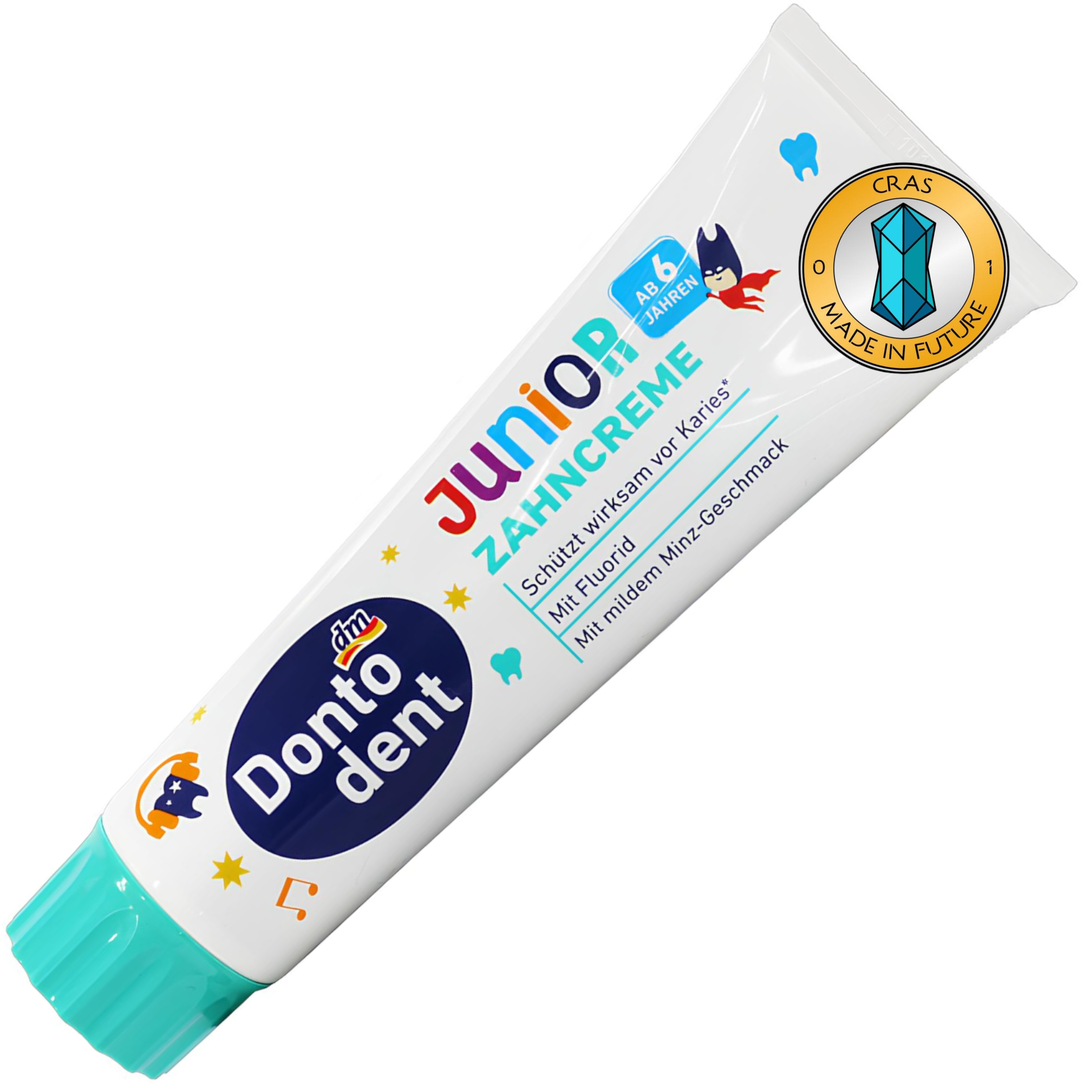
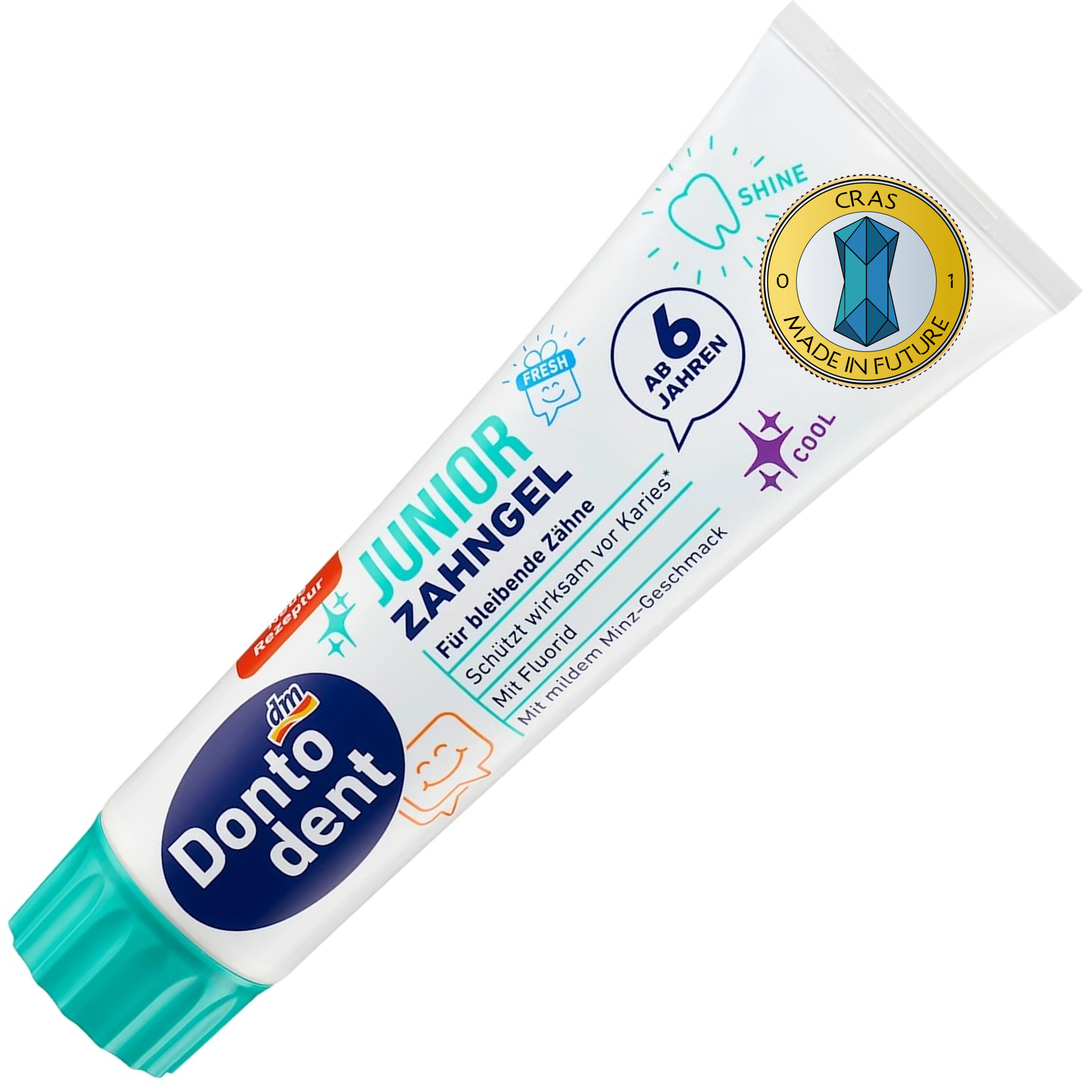
New Dontodent

Changed region(s): [[0.0, 0.124, 0.93, 1.0], [0.961, 0.248, 1.0, 0.31]]

diff --git a/js/hygiene/array-children-toothpastes.js b/js/hygiene/array-children-toothpastes.js
@@ -1,33 +1,33 @@
 export const shopLotsChildrenToothpastes = [
-    {
-        type: "retail",
-        mainCategory: "hygiene-products",
-        subcategory: "shining-smile for-children",
-        url: "./images/shop/gigiena/beaming_smile/children/dental_tralala_kids_chocolate_50.jpg",
-        alt: "dental_tralala_kids_chocolate_50",
-        url1: "./images/shop/gigiena/beaming_smile/children/dental_tralala_kids_chocolate_50-01.jpg",
-        alt1: "dental_tralala_kids_chocolate_50-01",
-        url2: "./images/shop/gigiena/beaming_smile/children/dental_tralala_kids_chocolate_50-02.jpg",
-        alt2: "dental_tralala_kids_chocolate_50-02",
-        url3: "./images/shop/gigiena/beaming_smile/children/dental_tralala_kids_chocolate_50-03.jpg",
-        alt3: "dental_tralala_kids_chocolate_50-03",
-        marker: "TPCN205",
-        brand: "Dental",
-        search: "дентал тралала тра-ла-ла кидс кідс для дітей детей дитей шоколадная зубная паста с шоколадом со вкусом шоколада для зубов зубные пасты зубні пасти",
-        nameUKR: "Дитяча зубна паста зі смаком шоколаду",
-        nameEN: "Tra-la-la Kids Chocolate",
-        companyName: "Rubella Beauty AD",
-        countryName: "Болгарія",
-        volumeName: "Об'єм",
-        volume: "50 мл.",
-        priceGRN: 34,
-        quantityOnStorage: 2,
-        description01: "Дитяча зубна паста &#171Dental - Tra-la-la Kids Chocolate&#187 перетворює догляд за зубами на справжнє задоволення.",
-        description02: "Завдяки неперевершеному смаку шоколаду, Ваша дитина із задоволенням буде чистити зуби кожного дня.",
-        description03: "Паста &#171Dental - Tra-la-la Kids Chocolate&#187 забезпечує ефективний захист від карієсу, м'яко доглядаючи за дитячими зубами та яснами.",
-        description04: "<strong>Дитяча зубна паста. Смак: шоколад. Містить фтор, лактат кальцію.</strong>",
-        description05: "Придбайте &#171Dental - Tra-la-la Kids Chocolate&#187 вже сьогодні і зробіть чищення зубів улюбленою процедурою Вашої дитини!"
-    },
+    // {
+    //     type: "retail",
+    //     mainCategory: "hygiene-products",
+    //     subcategory: "shining-smile for-children",
+    //     url: "./images/shop/gigiena/beaming_smile/children/dental_tralala_kids_chocolate_50.jpg",
+    //     alt: "dental_tralala_kids_chocolate_50",
+    //     url1: "./images/shop/gigiena/beaming_smile/children/dental_tralala_kids_chocolate_50-01.jpg",
+    //     alt1: "dental_tralala_kids_chocolate_50-01",
+    //     url2: "./images/shop/gigiena/beaming_smile/children/dental_tralala_kids_chocolate_50-02.jpg",
+    //     alt2: "dental_tralala_kids_chocolate_50-02",
+    //     url3: "./images/shop/gigiena/beaming_smile/children/dental_tralala_kids_chocolate_50-03.jpg",
+    //     alt3: "dental_tralala_kids_chocolate_50-03",
+    //     marker: "TPCN205",
+    //     brand: "Dental",
+    //     search: "дентал тралала тра-ла-ла кидс кідс для дітей детей дитей шоколадная зубная паста с шоколадом со вкусом шоколада для зубов зубные пасты зубні пасти",
+    //     nameUKR: "Дитяча зубна паста зі смаком шоколаду",
+    //     nameEN: "Tra-la-la Kids Chocolate",
+    //     companyName: "Rubella Beauty AD",
+    //     countryName: "Болгарія",
+    //     volumeName: "Об'єм",
+    //     volume: "50 мл.",
+    //     priceGRN: 34,
+    //     quantityOnStorage: 2,
+    //     description01: "Дитяча зубна паста &#171Dental - Tra-la-la Kids Chocolate&#187 перетворює догляд за зубами на справжнє задоволення.",
+    //     description02: "Завдяки неперевершеному смаку шоколаду, Ваша дитина із задоволенням буде чистити зуби кожного дня.",
+    //     description03: "Паста &#171Dental - Tra-la-la Kids Chocolate&#187 забезпечує ефективний захист від карієсу, м'яко доглядаючи за дитячими зубами та яснами.",
+    //     description04: "<strong>Дитяча зубна паста. Смак: шоколад. Містить фтор, лактат кальцію.</strong>",
+    //     description05: "Придбайте &#171Dental - Tra-la-la Kids Chocolate&#187 вже сьогодні і зробіть чищення зубів улюбленою процедурою Вашої дитини!"
+    // },
     // {
     //     type: "wholesale оптом",
     // mainCategory: "hygiene-products",
@@ -57,31 +57,58 @@ export const shopLotsChildrenToothpastes = [
     //     description04: "<strong>Дитяча зубна паста. Смак: кола. Містить фтор, лактат кальцію.</strong>",
     //     description05: "Замовляйте &#171Dental - Tra-la-la Kids Chocolate&#187 вже сьогодні і зробіть догляд за зубами радісним та корисним для Вашої дитини!"
     // },
-    // {
-    //     type: "wholesale оптом",
-    //     mainCategory: "hygiene-products",
-    //     subcategory: "shining-smile for-children",
-    //     url: "./images/shop/gigiena/beaming_smile/children/dontodent_junior_zahngel_mit_minz_geschmack_100.jpg",
-    //     alt: "dontodent_junior_zahngel_mit_minz_geschmack_100",
-    //     url1: "./images/shop/gigiena/beaming_smile/children/dontodent_junior_zahngel_mit_minz_geschmack_100-01.jpg",
-    //     alt1: "dontodent_junior_zahngel_mit_minz_geschmack_100-01",
-    //     url2: "./images/shop/gigiena/beaming_smile/children/dontodent_junior_zahngel_mit_minz_geschmack_100-02.jpg",
-    //     alt2: "dontodent_junior_zahngel_mit_minz_geschmack_100-02",
-    //     marker: "TPCN250",
-    //     brand: "Dontodent",
-    //     search: "донтодент кидс кідс для дітей детей дитей зубная паста для зубов зубные пасты зубні пасти мята с мятой со вкусом мяты мятная м'ятна зубной гель",
-    //     nameUKR: "Дитячий зубний гель зі смаком м'яти",
-    //     nameEN: "Junior Zahngel Mit Mildem Minz-Geschmack",
-    //     companyName: "dm-drogerie markt GmbH + Co.",
-    //     countryName: "Німеччина",
-    //     volumeName: "Об'єм",
-    //     volume: "100 мл.",
-    //     priceGRN: 57,
-    //     priceGRNOpt: 49,
-    //     description01: "Дитячий зубний гель &#171Dontodent - Junior Zahngel Mit Mildem Minz-Geschmack&#187 зі смаком м'яти зробить щоденну чистку зубів приємною та веселою.",
-    //     description02: "М'яка формула дбайливо очищає зуби, не пошкоджуючи емаль, при цьому забезпечуючи свіжий подих і надійний захист від карієсу.",
-    //     description03: "Легкий м'ятний смак &#171Dontodent - Junior Zahngel Mit Mildem Minz-Geschmack&#187 подобається дітям, заохочуючи їх до регулярної гігієни ротової порожнини.",
-    //     description04: "<strong>Дитячий зубний гель. Смак: м'ята. Містить фтор. Від 6 років.</strong>",
-    //     description05: "Дозвольте своїй дитині насолоджуватися чистотою зубів із &#171Dontodent - Junior Zahngel Mit Mildem Minz-Geschmack&#187 щодня!"
-    // },
+    {
+        type: "wholesale оптом",
+        mainCategory: "hygiene-products",
+        subcategory: "shining-smile for-children",
+        url: "./images/shop/gigiena/beaming_smile/children/dontodent_mildes _zahngel_mit_himbeer_geschmack_100.jpg",
+        alt: "dontodent_mildes _zahngel_mit_himbeer_geschmack_100",
+        url1: "./images/shop/gigiena/beaming_smile/children/dontodent_mildes _zahngel_mit_himbeer_geschmack_100-01.jpg",
+        alt1: "dontodent_mildes _zahngel_mit_himbeer_geschmack_100-01",
+        url2: "./images/shop/gigiena/beaming_smile/children/dontodent_mildes _zahngel_mit_himbeer_geschmack_100-02.jpg",
+        alt2: "dontodent_mildes _zahngel_mit_himbeer_geschmack_100-02",
+        marker: "TPCN250",
+        brand: "Dontodent",
+        search: "донтодент кидс кідс для дітей детей дитей зубная паста для зубов зубные пасты зубні пасти мята с клубникой со вкусом клубники клубника зубной гель молочні зуби молочные зубы для молочных зубов",
+        nameUKR: "Дитячий зубний гель з фтором зі смаком полуниці (до 6 років)",
+        nameEN: "Mildes Zahngel Mit Himbeer-Geschmack",
+        companyName: "dm-drogerie markt GmbH + Co.",
+        countryName: "Німеччина",
+        volumeName: "Об'єм",
+        volume: "100 мл.",
+        priceGRN: 82,
+        priceGRNOpt: 70,
+        description01: "Дитячий зубний гель &#171Dontodent - Mildes Zahngel Mit Himbeer-Geschmack&#187 розроблений для догляду за молочними зубами та здорової усмішки малюків.",
+        description02: "М’яка формула з фтором зміцнює емаль і забезпечує надійний захист від карієсу у ранньому віці.",
+        description03: "Приємний смак полуниці у &#171Dontodent - Mildes Zahngel Mit Himbeer-Geschmack&#187 робить чищення зубів веселим та комфортним щоденним ритуалом для дітей.",
+        description04: "<strong>Дитячий зубний гель. Смак: полуниця. Містить фтор. До 6 років. Для молочних зубів.</strong>",
+        description05: "Обирайте &#171Dontodent - Mildes Zahngel Mit Himbeer-Geschmack&#187, щоб подарувати своїй дитині правильний догляд за молочними зубами!"
+    },
+    {
+        type: "wholesale оптом",
+        mainCategory: "hygiene-products",
+        subcategory: "shining-smile for-children",
+        url: "./images/shop/gigiena/beaming_smile/children/dontodent_junior_zahngel_mit_minz_geschmack_100.jpg",
+        alt: "dontodent_junior_zahngel_mit_minz_geschmack_100",
+        url1: "./images/shop/gigiena/beaming_smile/children/dontodent_junior_zahngel_mit_minz_geschmack_100-01.jpg",
+        alt1: "dontodent_junior_zahngel_mit_minz_geschmack_100-01",
+        url2: "./images/shop/gigiena/beaming_smile/children/dontodent_junior_zahngel_mit_minz_geschmack_100-02.jpg",
+        alt2: "dontodent_junior_zahngel_mit_minz_geschmack_100-02",
+        marker: "TPCN255",
+        brand: "Dontodent",
+        search: "донтодент кидс кідс для дітей детей дитей зубная паста для зубов зубные пасты зубні пасти мята с мятой со вкусом мяты мятная м'ятна зубной гель",
+        nameUKR: "Дитячий зубний гель з фтором зі смаком м'яти (від 6 років)",
+        nameEN: "Junior Zahngel Mit Mildem Minz-Geschmack",
+        companyName: "dm-drogerie markt GmbH + Co.",
+        countryName: "Німеччина",
+        volumeName: "Об'єм",
+        volume: "100 мл.",
+        priceGRN: 82,
+        priceGRNOpt: 70,
+        description01: "Дитячий зубний гель &#171Dontodent - Junior Zahngel Mit Mildem Minz-Geschmack&#187 зі смаком м'яти зробить щоденну чистку зубів приємною та веселою.",
+        description02: "М'яка формула дбайливо очищає зуби, не пошкоджуючи емаль, при цьому забезпечуючи свіжий подих і надійний захист від карієсу.",
+        description03: "Легкий м'ятний смак &#171Dontodent - Junior Zahngel Mit Mildem Minz-Geschmack&#187 подобається дітям, заохочуючи їх до регулярної гігієни ротової порожнини.",
+        description04: "<strong>Дитячий зубний гель. Смак: м'ята. Містить фтор. Від 6 років.</strong>",
+        description05: "Дозвольте своїй дитині насолоджуватися чистотою зубів із &#171Dontodent - Junior Zahngel Mit Mildem Minz-Geschmack&#187 щодня!"
+    },
 ]

diff --git a/js/array-new-items.js b/js/array-new-items.js
@@ -394,6 +394,60 @@ export const shopLotsNewItems = [
         description05: "Спробуйте &#171Denkmit - Geschirr Reiniger All In One&#187, щоб насолоджуватися бездоганною чистотою посуду та турботою про екологію!"
     },
     {
+        type: "wholesale оптом",
+        mainCategory: "hygiene-products",
+        subcategory: "shining-smile for-children",
+        url: "./images/shop/gigiena/beaming_smile/children/dontodent_mildes _zahngel_mit_himbeer_geschmack_100.jpg",
+        alt: "dontodent_mildes _zahngel_mit_himbeer_geschmack_100",
+        url1: "./images/shop/gigiena/beaming_smile/children/dontodent_mildes _zahngel_mit_himbeer_geschmack_100-01.jpg",
+        alt1: "dontodent_mildes _zahngel_mit_himbeer_geschmack_100-01",
+        url2: "./images/shop/gigiena/beaming_smile/children/dontodent_mildes _zahngel_mit_himbeer_geschmack_100-02.jpg",
+        alt2: "dontodent_mildes _zahngel_mit_himbeer_geschmack_100-02",
+        marker: "TPCN250",
+        brand: "Dontodent",
+        search: "донтодент кидс кідс для дітей детей дитей зубная паста для зубов зубные пасты зубні пасти мята с клубникой со вкусом клубники клубника зубной гель молочні зуби молочные зубы для молочных зубов",
+        nameUKR: "Дитячий зубний гель з фтором зі смаком полуниці (до 6 років)",
+        nameEN: "Mildes Zahngel Mit Himbeer-Geschmack",
+        companyName: "dm-drogerie markt GmbH + Co.",
+        countryName: "Німеччина",
+        volumeName: "Об'єм",
+        volume: "100 мл.",
+        priceGRN: 82,
+        priceGRNOpt: 70,
+        description01: "Дитячий зубний гель &#171Dontodent - Mildes Zahngel Mit Himbeer-Geschmack&#187 розроблений для догляду за молочними зубами та здорової усмішки малюків.",
+        description02: "М’яка формула з фтором зміцнює емаль і забезпечує надійний захист від карієсу у ранньому віці.",
+        description03: "Приємний смак полуниці у &#171Dontodent - Mildes Zahngel Mit Himbeer-Geschmack&#187 робить чищення зубів веселим та комфортним щоденним ритуалом для дітей.",
+        description04: "<strong>Дитячий зубний гель. Смак: полуниця. Містить фтор. До 6 років. Для молочних зубів.</strong>",
+        description05: "Обирайте &#171Dontodent - Mildes Zahngel Mit Himbeer-Geschmack&#187, щоб подарувати своїй дитині правильний догляд за молочними зубами!"
+    },
+    {
+        type: "wholesale оптом",
+        mainCategory: "hygiene-products",
+        subcategory: "shining-smile for-children",
+        url: "./images/shop/gigiena/beaming_smile/children/dontodent_junior_zahngel_mit_minz_geschmack_100.jpg",
+        alt: "dontodent_junior_zahngel_mit_minz_geschmack_100",
+        url1: "./images/shop/gigiena/beaming_smile/children/dontodent_junior_zahngel_mit_minz_geschmack_100-01.jpg",
+        alt1: "dontodent_junior_zahngel_mit_minz_geschmack_100-01",
+        url2: "./images/shop/gigiena/beaming_smile/children/dontodent_junior_zahngel_mit_minz_geschmack_100-02.jpg",
+        alt2: "dontodent_junior_zahngel_mit_minz_geschmack_100-02",
+        marker: "TPCN255",
+        brand: "Dontodent",
+        search: "донтодент кидс кідс для дітей детей дитей зубная паста для зубов зубные пасты зубні пасти мята с мятой со вкусом мяты мятная м'ятна зубной гель",
+        nameUKR: "Дитячий зубний гель з фтором зі смаком м'яти (від 6 років)",
+        nameEN: "Junior Zahngel Mit Mildem Minz-Geschmack",
+        companyName: "dm-drogerie markt GmbH + Co.",
+        countryName: "Німеччина",
+        volumeName: "Об'єм",
+        volume: "100 мл.",
+        priceGRN: 82,
+        priceGRNOpt: 70,
+        description01: "Дитячий зубний гель &#171Dontodent - Junior Zahngel Mit Mildem Minz-Geschmack&#187 зі смаком м'яти зробить щоденну чистку зубів приємною та веселою.",
+        description02: "М'яка формула дбайливо очищає зуби, не пошкоджуючи емаль, при цьому забезпечуючи свіжий подих і надійний захист від карієсу.",
+        description03: "Легкий м'ятний смак &#171Dontodent - Junior Zahngel Mit Mildem Minz-Geschmack&#187 подобається дітям, заохочуючи їх до регулярної гігієни ротової порожнини.",
+        description04: "<strong>Дитячий зубний гель. Смак: м'ята. Містить фтор. Від 6 років.</strong>",
+        description05: "Дозвольте своїй дитині насолоджуватися чистотою зубів із &#171Dontodent - Junior Zahngel Mit Mildem Minz-Geschmack&#187 щодня!"
+    },
+    {
         type: "retail",
         mainCategory: "household-chemicals",
         subcategory: "detergents",

diff --git a/js/hygiene/array-tp-three-layer.js b/js/hygiene/array-tp-three-layer.js
@@ -213,8 +213,8 @@ export const shopLotsTPThreeLayer = [
         countryName: "Сербія",
         quantityName: "Кількість",
         quantity: "10 шт.",
-        priceGRN: 132,
-        priceGRNOpt: 113,
+        priceGRN: 143,
+        priceGRNOpt: 122,
         description01: "Туалетний папір &#171Perfex - Camomile&#187 — це м’якість та свіжість з ароматом ромашки для щоденного комфорту.",
         description02: "Виготовлений із 100% чистої целюлози, він забезпечує делікатність і гігієну навіть для найчутливішої шкіри.",
         description03: "Легкий аромат ромашки &#171Perfex - Camomile&#187 створює відчуття чистоти та затишку у ванній кімнаті.",
@@ -238,8 +238,8 @@ export const shopLotsTPThreeLayer = [
         countryName: "Сербія",
         quantityName: "Кількість",
         quantity: "10 шт.",
-        priceGRN: 132,
-        priceGRNOpt: 113,
+        priceGRN: 143,
+        priceGRNOpt: 122,
         description01: "Тришаровий туалетний папір &#171Perfex - Peach&#187 дарує м’якість та ніжний аромат стиглого персика щодня.",
         description02: "Виготовлений із 100% чистої целюлози, він поєднує щільність, комфорт і дбайливе ставлення до шкіри.",
         description03: "Свіжий фруктовий аромат &#171Perfex - Peach&#187 створює приємну атмосферу у ванній та додає нотку затишку.",
@@ -263,8 +263,8 @@ export const shopLotsTPThreeLayer = [
         countryName: "Сербія",
         quantityName: "Кількість",
         quantity: "10 шт.",
-        priceGRN: 132,
-        priceGRNOpt: 113,
+        priceGRN: 143,
+        priceGRNOpt: 122,
         description01: "&#171Perfex - Pure White Delicate Care&#187 — це тришаровий туалетний папір, створений спеціально для чутливої шкіри.",
         description02: "Склад із 100% чистої целюлози забезпечує м’якість, міцність і делікатне очищення без подразнень.",
         description03: "Без ароматизаторів та барвників, &#171Perfex - Pure White Delicate Care&#187 дарує відчуття чистоти та абсолютного комфорту.",
@@ -288,8 +288,8 @@ export const shopLotsTPThreeLayer = [
         countryName: "Сербія",
         quantityName: "Кількість",
         quantity: "10 шт.",
-        priceGRN: 151,
-        priceGRNOpt: 129,
+        priceGRN: 160,
+        priceGRNOpt: 136,
         description01: "&#171Perfex - Cotton Like Comfort Line Natural&#187 — тришаровий натуральний туалетний папір з додаванням бавовни для особливої м’якості.",
         description02: "Виготовлений із 100% чистої целюлози, він ніжно піклується про шкіру та дарує комфорт щодня.",
         description03: "&#171Perfex - Cotton Like Comfort Line Natural&#187 не містить ароматизаторів та барвників, з природною текстурою, яка створює приємне відчуття чистоти.",
@@ -313,8 +313,8 @@ export const shopLotsTPThreeLayer = [
         countryName: "Сербія",
         quantityName: "Кількість",
         quantity: "10 шт.",
-        priceGRN: 151,
-        priceGRNOpt: 129,
+        priceGRN: 160,
+        priceGRNOpt: 136,
         description01: "&#171Perfex - Cotton Like Premium White Baby Powder&#187 — дитячий тришаровий туалетний папір, створений для ніжної та чутливої шкіри.",
         description02: "Виготовлений із 100% чистої целюлози з додаванням бавовни, він поєднує м’якість та міцність у кожному відриві.",
         description03: "Натуральний склад &#171Perfex - Cotton Like Premium White Baby Powder&#187 без подразників і легкий аромат дитячої присипки дарують комфорт та відчуття догляду.",

diff --git a/js/household_chemicals/array-means-cleaning-kitchen-bathroom.js b/js/household_chemicals/array-means-cleaning-kitchen-bathroom.js
@@ -1922,8 +1922,8 @@ export const shopLotsMeansCleaningKitchenBathroom = [
         countryName: "Німеччина",
         volumeName: "Об'єм",
         volume: "300 мл.",
-        priceGRN: 90,
-        priceGRNOpt: 77,
+        priceGRN: 97,
+        priceGRNOpt: 83,
         description01: "Засіб для чищення склокераміки та індукційних варильних поверхонь &#171Denkmit - Glaskeramik Reiniger Power - Formel&#187 дарує бездоганну чистоту та блиск.",
         description02: "Унікальна формула легко видаляє бруд, захищає поверхню від подряпин і створює захисний шар для довготривалого ефекту.",
         description03: "Ваші варильні поверхні виглядатимуть, як нові, зберігаючи свій блиск і привабливий вигляд протягом тривалого часу після &#171Denkmit - Glaskeramik Reiniger Power - Formel&#187.",
